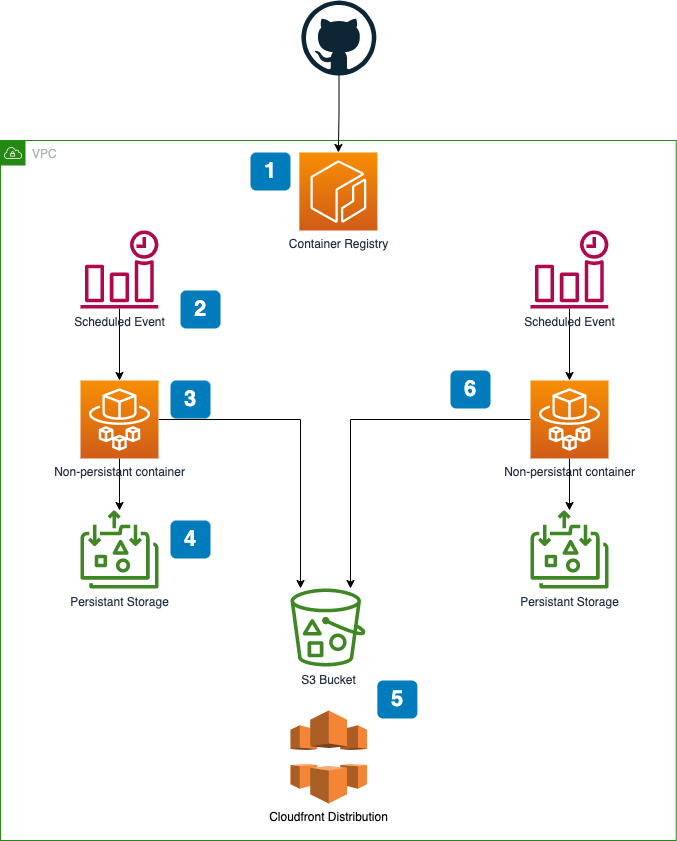
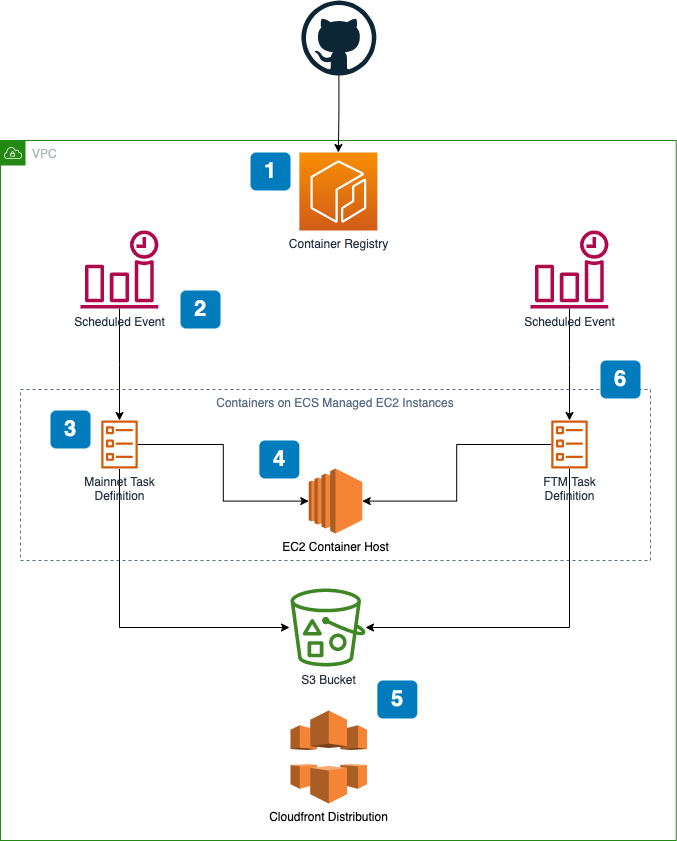
Update README

Changed region(s): [[0.062, 0.4328, 0.7445, 0.742], [0.7445, 0.4019, 0.9616, 0.742], [0.3102, 0.5256, 0.3412, 0.5565]]

diff --git a/README.md b/README.md
@@ -78,11 +78,13 @@ The following diagram provides a high level overview of the infrastructure that 
 
 1. [GitHub Actions](https://github.com/yearn/yearn-exporter/actions) push container images to a container repository on AWS
 2. A [CloudWatch Event](https://docs.aws.amazon.com/AmazonCloudWatch/latest/events/WhatIsCloudWatchEvents.html) triggers on a pre-defined schedule
-3. The CloudWatch event launches a new Fargate container with the latest image from the container repository
-4. The Fargate container mounts a persistent Elastic Files System (EFS) drive to the container. The drive contains the cache for brownie contracts between runs.
+3. The CloudWatch event launches a new ECS EC2 task container with the latest image from the container repository
+4. The ECS EC2 task container mounts a persistent folder the EC2 instance which runs the task containers. The drive contains the cache for brownie contracts between runs.
 5. The output is stored in a S3 bucket and served through a cloudfront distribution
-6. The same system (CloudWatch Event, Fargate Container, and EFS drive) is setup for each network (mainnet, fantom mainnet, etc...)
+6. The same system is setup for each network (mainnet, fantom mainnet, etc...), and run individually for endorsed and experimental strategies.
 
 ### Deploying
 
-Deploy command: `cdk deploy --profile "yearn-exporter" --all --require-approval never`
+Deploy command: `HOSTED_ZONE_ID="Z1111111QQMXXXRRR" cdk deploy --profile "yearn-exporter" --all --require-approval never`
+
+- `HOSTED_ZONE_ID` - The hosted zone that hosts the domain for the Cloudfront Distribution
